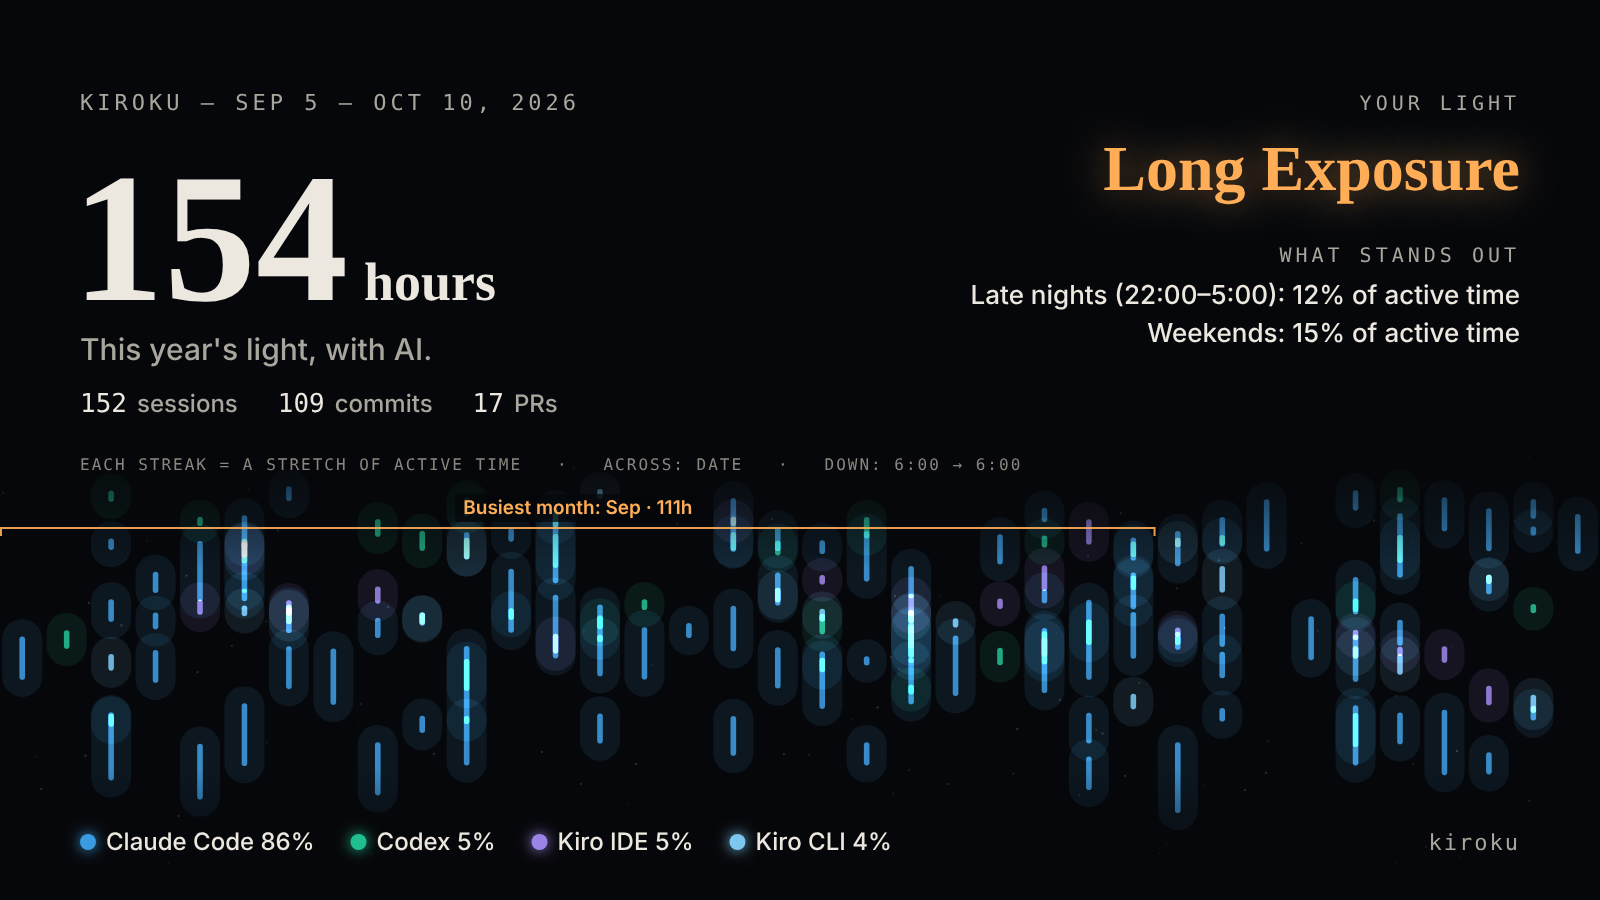
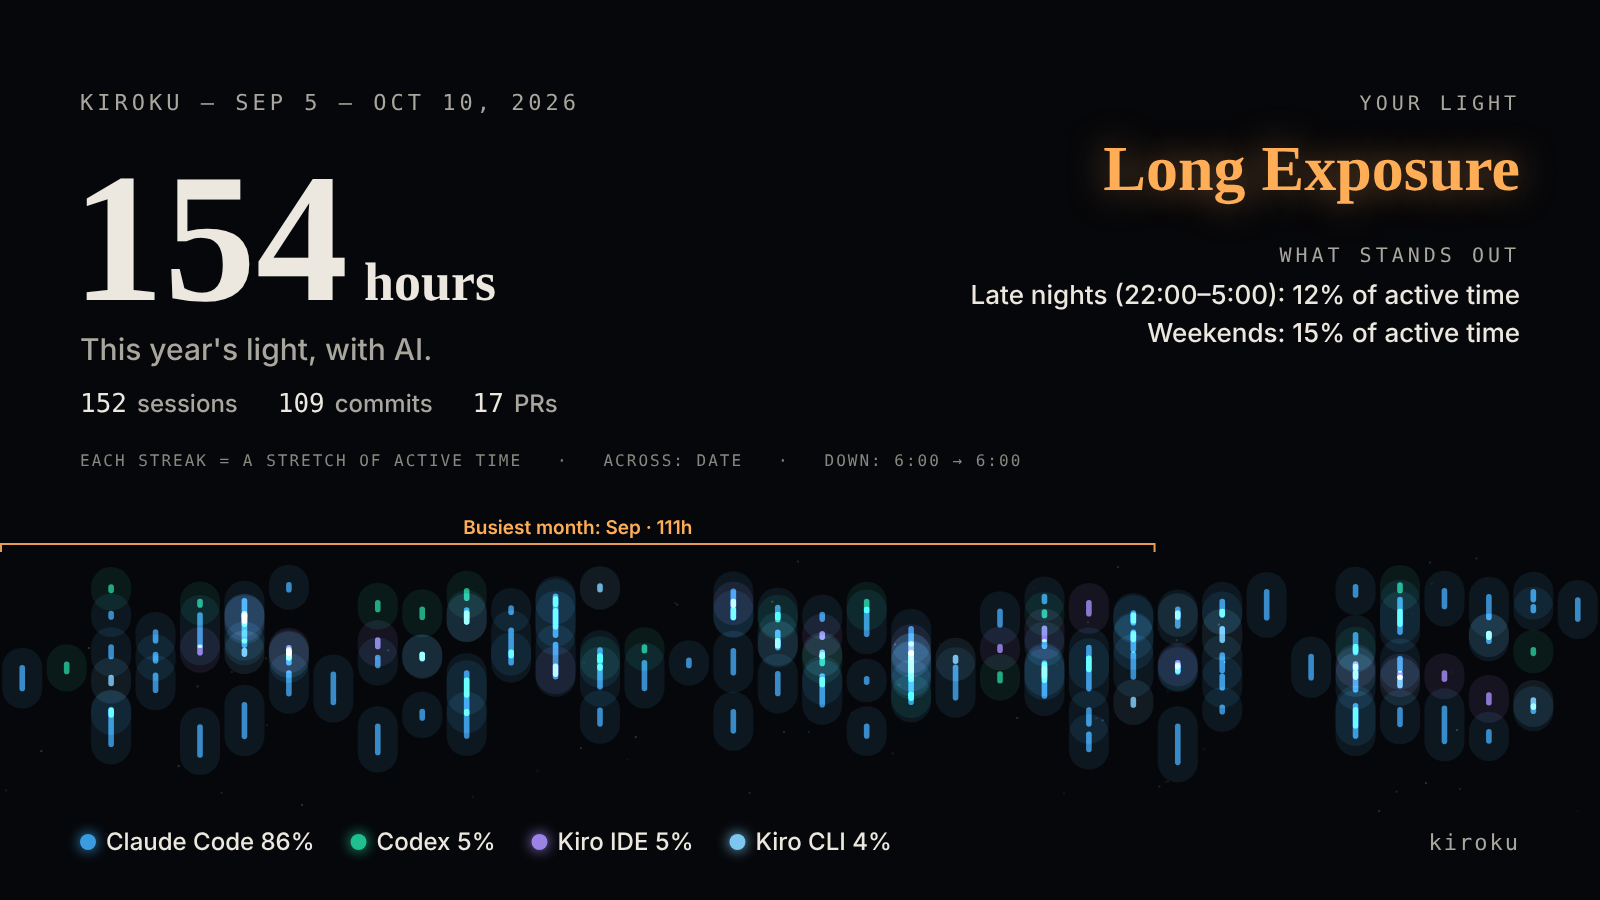
Year in review image: keep text off the streaks
Trying the image on four kinds of year (a night owl on one agent, an
early riser on three, many short sessions, weekends only) showed that
morning streaks sit at the top of the plate, under the reading line,
the labels and the top fade, so early risers lost most of their light.
The image now has a text band (the reading line and the labels of what
stands out) above the streaks, the brackets sit on the plate's top
edge, and the top fade is gone. A break within one month reads
"Aug 2–20". The diagram's crop follows the new plate.

diff --git a/internal/web/js/year.js b/internal/web/js/year.js
@@ -69,7 +69,7 @@ function highlights(x, ms, on, firstOf, day0){
       const a = new Date(ds[i-1] + "T00:00"), b = new Date(ds[i] + "T00:00"), n = Math.round((b - a)/864e5) - 1;
       if (n >= 3 && (!best || n > best.n)) best = {n, a: addDays(a, 1), b: addDays(b, -1)};
     }
-    if (best) H.push({c0: col(best.a), c1: col(best.b), t: `Longest break: ${dMD(best.a)}–${dMD(best.b)} · ${plural(best.n, "day")}`});
+    if (best) H.push({c0: col(best.a), c1: col(best.b), t: `Longest break: ${best.a.getMonth() === best.b.getMonth() ? `${dMD(best.a)}–${best.b.getDate()}` : `${dMD(best.a)}–${dMD(best.b)}`} · ${plural(best.n, "day")}`});
   }
   const t0 = Math.min(...Object.values(firstOf)); // 途中から使い始めたエージェント（最初の記録から 2 週間より後）
   Object.entries(firstOf).filter(([, t]) => t - t0 > 14*86400).sort((a, b) => a[1] - b[1]).slice(0, 1).forEach(([k, t]) => {
@@ -173,20 +173,20 @@ function drawPlate(){
 function drawCard(){
   const cv = $("#yrcard"); if (!cv || !yr.x) return;
   const x = yr.x, L = yr.L, o = yr.opt, W = 1600, H = 900, g = cv.getContext("2d");
-  const ink = "#ece8df", ink2 = "#a9a69e", amber = "#ffae57", top = 430;
+  const ink = "#ece8df", ink2 = "#a9a69e", amber = "#ffae57";
+  // 縦の割り付け：上に数字、その下に文字の帯（読み方・見どころ）、その下に光（PT〜PB）、いちばん下に凡例。
+  // 光の上に文字を重ねない（朝の筋は上端に写るので、重ねると朝型の人の光が隠れる）
+  const PT = 552, PB = 812;
   const ls = v => { if ("letterSpacing" in g) g.letterSpacing = v; };
   g.clearRect(0, 0, W, H); g.fillStyle = "#06070a"; g.fillRect(0, 0, W, H);
   // 使い始めたばかりでも光が端に寄らないよう、画像は記録のある日から（短ければ 4 週ぶん）だけを写す
   const last = x.partial ? Math.round((new Date(x.partial.getFullYear(), x.partial.getMonth(), x.partial.getDate()) - new Date(x.y, 0, 1))/864e5) + 1 : x.nd;
   const first = x.lines.reduce((a, l) => Math.min(a, l[0]), last), c0 = Math.max(0, Math.min(first, last - 28));
-  exposure(g, 0, top, W, H - top, x, 2, false, c0, last);
-  const fade = g.createLinearGradient(0, top, 0, H);
-  fade.addColorStop(0, "rgba(6,7,10,1)"); fade.addColorStop(.3, "rgba(6,7,10,0)"); fade.addColorStop(.72, "rgba(6,7,10,0)"); fade.addColorStop(1, "rgba(6,7,10,.92)");
-  g.fillStyle = fade; g.fillRect(0, top, W, H - top);
+  exposure(g, 0, PT, W, PB - PT, x, 2, false, c0, last);
   // 画像だけを見た人にも読めるよう、光の読み方を添える
   g.textAlign = "left"; g.textBaseline = "alphabetic"; g.fillStyle = ink2; g.globalAlpha = .8; g.font = `500 16px ${FONT.mono}`; ls("2px");
-  g.fillText("EACH STREAK = A STRETCH OF ACTIVE TIME   ·   ACROSS: DATE   ·   DOWN: 6:00 → 6:00", 80, top + 40); ls("0px"); g.globalAlpha = 1;
-  // 見どころを光の上に書き込む：期間なら括弧、1 日なら目印。重なる見出しは 2 段目に下げる
+  g.fillText("EACH STREAK = A STRETCH OF ACTIVE TIME   ·   ACROSS: DATE   ·   DOWN: 6:00 → 6:00", 80, 466); ls("0px"); g.globalAlpha = 1;
+  // 見どころ：光の上端に括弧（期間）か目印（1 日）を付け、見出しはその上の帯に置く。重なる見出しは上の段に上げる
   const cw = W/(last - c0), cx0 = c => (c - c0)*cw;
   let rows = [[], []];
   x.hi.filter(h => h.c0 != null && h.c1 >= c0 && h.c0 < last).slice(0, 3).sort((p, q) => p.c0 - q.c0).forEach(h => {
@@ -194,13 +194,12 @@ function drawCard(){
     g.font = `600 19px ${FONT.sans}`; const tw = g.measureText(h.t).width;
     const tx = Math.max(80, Math.min(W - 80 - tw, (xa + xb)/2 - tw/2));
     const r = rows[0].every(([p, q]) => tx > q + 24 || tx + tw < p - 24) ? 0 : 1; rows[r].push([tx, tx + tw]);
-    const ty = top + 84 + r*58, ly = ty + 14;
+    const ty = 534 - r*28, ly = PT - 8;
     g.strokeStyle = amber; g.globalAlpha = .9; g.lineWidth = 2;
     g.beginPath();
     if (xb - xa > 6){ g.moveTo(xa + 1, ly + 8); g.lineTo(xa + 1, ly); g.lineTo(xb - 1, ly); g.lineTo(xb - 1, ly + 8); }
-    else { g.moveTo((xa + xb)/2, ly); g.lineTo((xa + xb)/2, ly + 26); }
+    else { g.moveTo((xa + xb)/2, ly); g.lineTo((xa + xb)/2, ly + 14); }
     g.stroke(); g.globalAlpha = 1;
-    g.fillStyle = "rgba(6,7,10,.75)"; g.fillRect(tx - 8, ty - 20, tw + 16, 28);
     g.fillStyle = amber; g.textAlign = "left"; g.fillText(h.t, tx, ty);
   });
   g.textAlign = "left"; g.textBaseline = "alphabetic";

diff --git a/tools/screenshots/year-params.html b/tools/screenshots/year-params.html
@@ -1,16 +1,16 @@
 <!doctype html>
-<!-- docs/year-params.png の元：Year in review のシェア画像（year.png）の光の部分に、読み方と Your light の決まり方を添えた図。
+<!-- docs/year-params.png の元（光の部分は year.png の y 552〜812 を 1250/1600 倍で切り出す。drawCard の PT・PB と合わせる）：Year in review のシェア画像（year.png）の光の部分に、読み方と Your light の決まり方を添えた図。
      capture.mjs が ?img=<year.png の場所> を付けて開き、撮る。文言は js/year.js の LIGHTS と docs/guide.md に合わせる -->
 <html lang="en"><head><meta charset="utf-8">
 <style>
 *{margin:0;box-sizing:border-box}
 body{width:1600px;background:#0b0d14;color:#e9e6de;font-family:Inter,-apple-system,BlinkMacSystemFont,"Segoe UI",Roboto,"Helvetica Neue",Arial,sans-serif;padding:52px 64px 48px}
 h1{font-size:32px;font-weight:800}h1 small{font-size:18px;color:#9aa0b4;font-weight:500;margin-left:14px}
-.wrap{position:relative;margin-top:28px;height:380px}
-.plate{position:absolute;left:150px;top:40px;width:1250px;height:265px;border-radius:10px;background:#06070a no-repeat;background-size:1250px 703px;background-position:0 -375px;box-shadow:0 0 0 1px #222736}
+.wrap{position:relative;margin-top:28px;height:320px}
+.plate{position:absolute;left:150px;top:40px;width:1250px;height:203px;border-radius:10px;background:#06070a no-repeat;background-size:1250px 703px;background-position:0 -431px;box-shadow:0 0 0 1px #222736}
 .ax{position:absolute;font:500 14px ui-monospace,Menlo,Consolas,monospace;color:#9aa0b4}
 .yax{left:70px;width:70px;text-align:right}
-svg.ov{position:absolute;left:0;top:0;width:1472px;height:380px;overflow:visible}
+svg.ov{position:absolute;left:0;top:0;width:1472px;height:320px;overflow:visible}
 .grid{display:grid;grid-template-columns:1.25fr 1fr;gap:40px;margin-top:24px}
 h2{font-size:21px;font-weight:700;margin-bottom:12px}
 table{border-collapse:collapse;width:100%;font-size:16px}
@@ -30,17 +30,17 @@ code{font:500 14px ui-monospace,Menlo,Consolas,monospace;color:#c9cde0}
 <div class="wrap">
   <div class="plate" id="plate"></div>
   <div class="ax yax" style="top:34px">6:00</div>
-  <div class="ax yax" style="top:100px">12:00</div>
-  <div class="ax yax" style="top:166px">18:00</div>
-  <div class="ax yax" style="top:232px">0:00</div>
-  <div class="ax yax" style="top:295px">6:00</div>
-  <div class="ax" style="left:150px;top:316px">first day with history (at least 4 weeks back)</div>
-  <div class="ax" style="left:1250px;top:316px">today / Dec 31</div>
+  <div class="ax yax" style="top:85px">12:00</div>
+  <div class="ax yax" style="top:136px">18:00</div>
+  <div class="ax yax" style="top:186px">0:00</div>
+  <div class="ax yax" style="top:235px">6:00</div>
+  <div class="ax" style="left:150px;top:254px">first day with history (at least 4 weeks back)</div>
+  <div class="ax" style="left:1250px;top:254px">today / Dec 31</div>
   <svg class="ov">
     <defs><marker id="a" markerWidth="10" markerHeight="10" refX="8" refY="5" orient="auto"><path d="M0,0 L10,5 L0,10 z" fill="#ffae57"/></marker></defs>
-    <line x1="150" y1="342" x2="1400" y2="342" stroke="#ffae57" stroke-width="2" marker-end="url(#a)"/>
-    <text x="775" y="368" fill="#ffae57" font-size="16" text-anchor="middle">Across: date (one column a day)</text>
-    <line x1="40" y1="40" x2="40" y2="305" stroke="#ffae57" stroke-width="2" marker-end="url(#a)"/>
+    <line x1="150" y1="280" x2="1400" y2="280" stroke="#ffae57" stroke-width="2" marker-end="url(#a)"/>
+    <text x="775" y="306" fill="#ffae57" font-size="16" text-anchor="middle">Across: date (one column a day)</text>
+    <line x1="40" y1="40" x2="40" y2="243" stroke="#ffae57" stroke-width="2" marker-end="url(#a)"/>
     <text x="0" y="24" fill="#ffae57" font-size="16">Down: time of day</text>
   </svg>
 </div>
